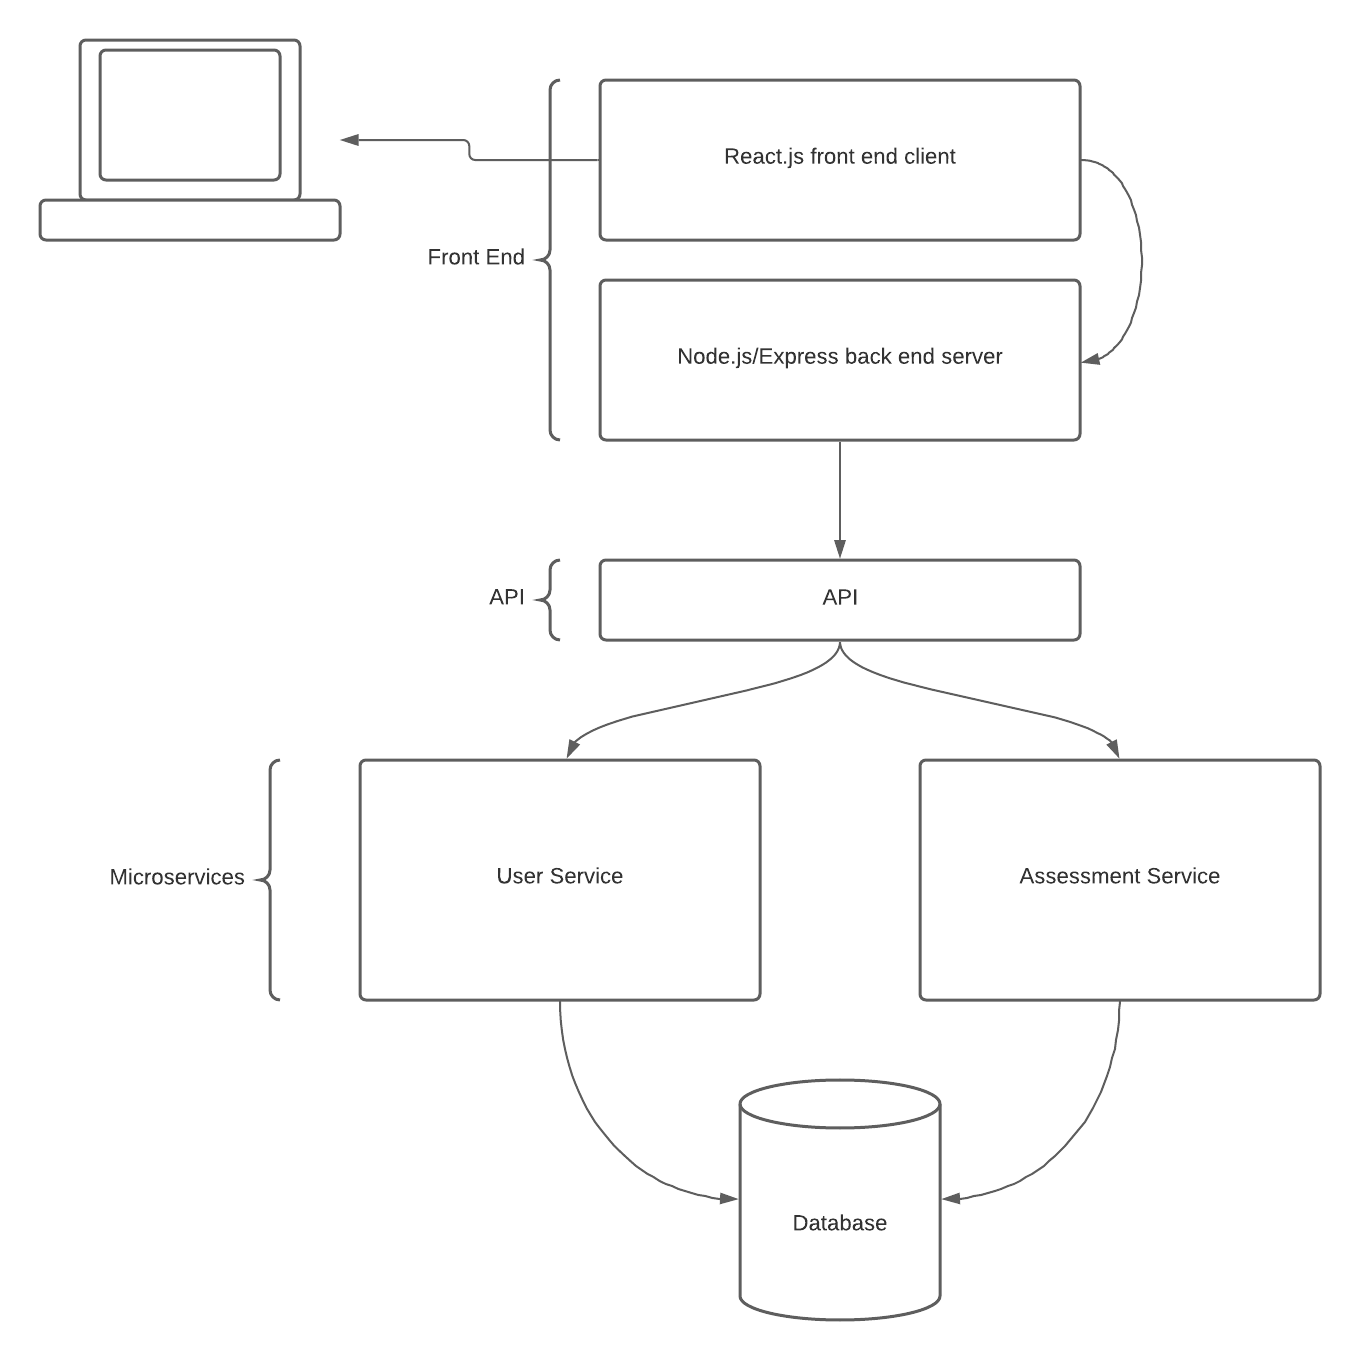
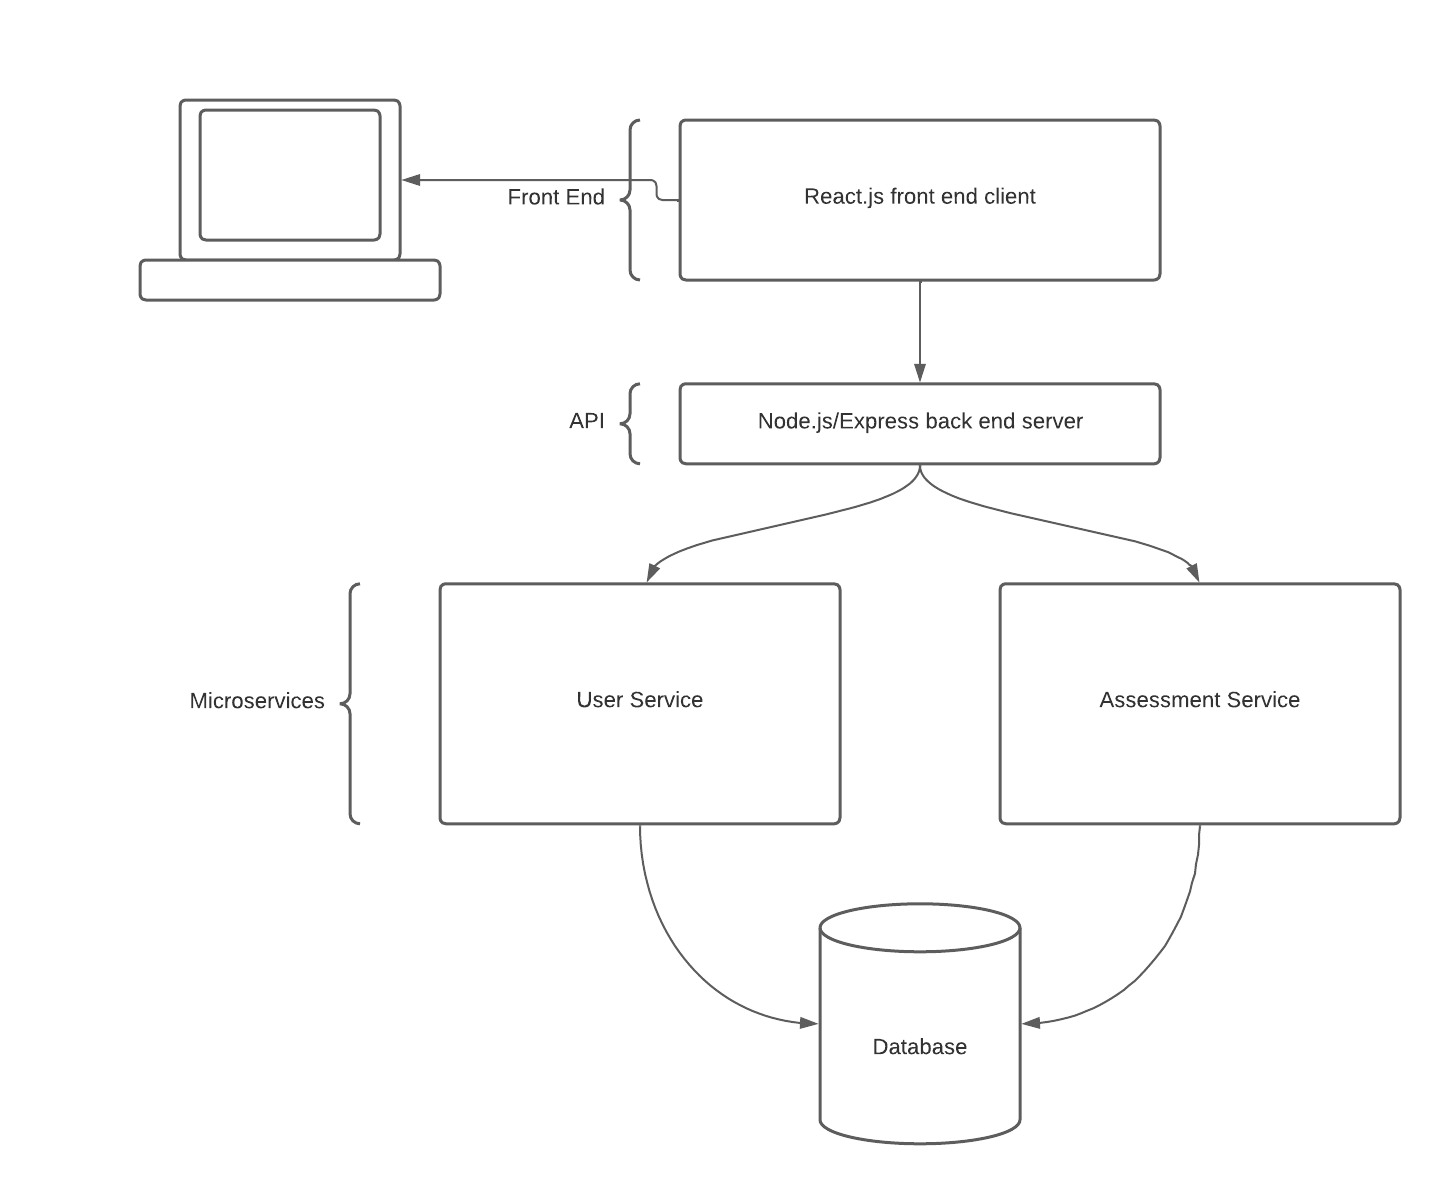
updated README

diff --git a/README.md b/README.md
@@ -3,24 +3,24 @@
 ## Purpose and Context
 
 - Web Development
-  - The goal of this application is for you to explore and demonstrate understanding of web development using some of our core technologies. You must use React.js on the client-side, a Bootstrap template for the UI, Node.js/Express for the server-side, Bookshelf.js as the ORM, restify for the API back-end, PostgreSQL as the database, and Bcrypt to encrypt passwords in PostgreSQL. You must also create a git repository on github.com and push all of your code there frequently.
+  - The goal of this application is for you to explore and demonstrate understanding of web development using some of our core technologies. You must use React.js on the client-side, a Bootstrap template for the UI, Node.js/Express for the back-end, Sequelize as the ORM, PostgreSQL as the database, and Bcrypt to encrypt passwords in PostgreSQL. You must also create a git repository on github.com and push all of your code there frequently.
 
 - Criminal Justice
-  - The Risk Assessment System is a Web-based Application that allows for assessing the risk of offender [recidivism](https://nij.ojp.gov/topics/corrections/recidivism).  By assessing the likelihood that an offender might commit another offense, the system helps officers determine how best to help the offender moving forward.  In ORAS, we do this by automatically generating caseplans, reports, and maintaining the full timeline of an offender's record while they exist in the system.  This process was developed based on research performed by the UC Corrections Institute (UCCI) and has been proven to reduce the recidivism of offenders over time.
+  - The Risk Assessment (RA) System is a Web-based Application that allows for assessing the risk of offender [recidivism](https://nij.ojp.gov/topics/corrections/recidivism). By assessing the likelihood that an offender might commit another offense, the system helps officers determine how best to help the offender moving forward. In RA, we do this by automatically generating caseplans, reports, and maintaining the full timeline of an offender's record while they exist in the system. This process was developed based on research performed by the UC Corrections Institute (UCCI) and has been proven to reduce the recidivism of offenders over time.
 
 - The OCAT Internship Project
-  - Through OCAT, you will have the opportunity to explore a core piece of ORAS by building an interface for both creating assessments and monitoring assessments previously performed by users.  Your ITSC mentors will guide you through this process, but we highly suggest that you make frequent use of your OCAT internship peers.  To be clear, we do not want you copying code or handing out answers to other interns.  However, this is a collaborative process, and asking questions when you're confused is an important part of learning!  On the flip-side of that, teaching someone else or helping them through a problem is the best way to further cement that knowledge in your own mind.  So ask questions when you're stuck and help point your fellow teammates in the right direction!  Good luck!
+  - Through OCAT, you will have the opportunity to explore a core piece of ORAS by building an interface for both creating assessments and monitoring assessments previously performed by users. Your ITSC mentors will guide you through this process, but we highly suggest that you make frequent use of your OCAT internship peers. To be clear, we do not want you copying code or handing out answers to other interns. However, this is a collaborative process, and asking questions when you're confused is an important part of learning! On the flip-side of that, teaching someone else or helping them through a problem is the best way to further cement that knowledge in your own mind. So ask questions when you're stuck and help point your fellow teammates in the right direction! Good luck!
 
 ## ITSC Guidelines
 
 - Setup
-  - PLEASE ask if you're having trouble setting up your project repository, project board, first branch, or development environment.  The mentors are here to help you!  We want to make sure you get off to a great start and this part is often the most challenging, so please don't hesitate to come to us immediately with any setup concerns!
+  - PLEASE ask if you're having trouble setting up your project repository, project board, first branch, or development environment. The mentors are here to help you! We want to make sure you get off to a great start and this part is often the most challenging, so please don't hesitate to come to us immediately with any setup concerns!
 - Hour/Day Policy
   - If you've been stuck on something for two hours, ask a fellow intern!
   - If you've been stuck on something for a full day, ask a mentor!
 - Process for Getting Unstuck
     1. Search through the available resources in this document (located at the bottom of the page and throughout)
-    2. Google!  This is your most valuable resource and learning how to search the internet for your answer is going to be your most valuable skill moving forward!  Forum resources like StackOverflow can be extremely helpful.  In web development, there's almost always someone who has encountered your problem before.  The trick lies in finding that answer!
+    2. Google! This is your most valuable resource and learning how to search the internet for your answer is going to be your most valuable skill moving forward! Forum resources like StackOverflow can be extremely helpful. In web development, there's almost always someone who has encountered your problem before. The trick lies in finding that answer!
     3. Ask an OCAT internship peer
     4. Ask an OCAT mentor
 
@@ -30,17 +30,17 @@
   - Making a Pull Request
     - Create a Pull Request (PR) from your development branch (your current branch) into master (the main branch)
       - [Creating a Pull Request](https://docs.github.com/en/github/collaborating-with-issues-and-pull-requests/creating-a-pull-request)
-    - Reach out to one of your fellow OCAT interns and ask them nicely to review your code.  Include a link to the Pull Request you'd like them to review
-    - Take any suggestions with a grain of salt.  Remember, this is YOUR application.  Make any changes you agree with and then merge the Pull Request
+    - Reach out to one of your fellow OCAT interns and ask them nicely to review your code. Include a link to the Pull Request you'd like them to review
+    - Take any suggestions with a grain of salt. Remember, this is YOUR application. Make any changes you agree with and then merge the Pull Request
   - Reviewing a Pull Request (PR)
     - [Reviewing a Pull Request](https://docs.github.com/en/github/collaborating-with-issues-and-pull-requests/about-pull-request-reviews)
     - Go the link supplied by whichever OCAT intern has requested a review from you
     - Look through their code, offering suggestions and critiques
       - You should try to:
       - Understand each part of the code and look for ways to improve it
-      - Be kind.  Remember that this is someone else's work that they've spent a lot of time on
-      - Balance criticism with praise.  It is tempting to only point out the negatives.  If you see something you like, tell them!
-      - Feel free to ask questions.  In the end, this is a learning process.  Feel free to ask questions if you don't understand something in the code.
+      - Be kind. Remember that this is someone else's work that they've spent a lot of time on
+      - Balance criticism with praise. It is tempting to only point out the negatives. If you see something you like, tell them!
+      - Feel free to ask questions. In the end, this is a learning process. Feel free to ask questions if you don't understand something in the code.
   - After a Pull Request (PR) has been approved, merge it and move on
     - [Merging a Pull Request](https://docs.github.com/en/github/collaborating-with-issues-and-pull-requests/merging-a-pull-request)
     - Once merged, create a new branch from master and start on your next issue
@@ -55,25 +55,25 @@
 - Back-End Framework
   - [Express](http://expressjs.com/)
   - [Node.js](https://nodejs.org/en/)
-  - [Restify](http://restify.com/)
-  - Database ORM -> [Bookshelf.js](http://bookshelfjs.org/) and [knex.js](http://knexjs.org/)
+  - Database ORM -> [Sequelize](https://sequelize.org/)
   - Password Encryption -> [Bcrypt](https://github.com/kelektiv/node.bcrypt.js)
 - Database
   - [PostgreSQL](https://www.postgresql.org/)
 - Package Manager (for Node.js)
   - [npm](https://www.npmjs.com/)
 - Task Runners
-  - [webpack](https://webpack.js.org/)
+  - [webpack](https://webpack.js.org/) through [create-react-app](https://create-react-app.dev/)
 
 ## Architecture
 
-The application must be created with two "layers" using an API model and pseudo-microservices (the "skeleton" for this has already been provided within the template repository you'll start with). Once the HTML page is rendered, all future communication between the client/server should be done using HTTP requests sending/receiving JSON.
+The application must be created with two "layers" using an API model (the "skeleton" for this has already been provided within the template repository you'll start with). Once the HTML page is rendered, all future communication between the client/server should be done using HTTP requests sending/receiving JSON.
 
-- API: thin layer allowing for directing of requests from the front-end to the microservices.  Allows for outside integration.
+- Client: User interface for interacting with the API (the "front-end" of the application)
+- API: layer that receives requests from the front-end or a 3rd party and processes the request with the database. Allows for outside integration.
   - [Basic API explanation](https://www.freecodecamp.org/news/what-is-an-api-in-english-please-b880a3214a82/)
+  - [CRUD Basics](https://www.codecademy.com/articles/what-is-crud)
 - Microservices: complex layer of services that accept requests from the API and communicate with the database.
   - [Basic Microservice explanation](https://smartbear.com/solutions/microservices/)
-  - [CRUD Basics](https://www.codecademy.com/articles/what-is-crud)
 
 - The below diagram resembles what you should attempt to reproduce:
 ![OCAT Sample Architecture](./docs/attachments/OCAT_Architecture.png)
@@ -100,7 +100,7 @@ NOTE: You can name this whatever you want, just make certain that you leave it "
     - Resources:
         - [Creating a Repository from a Template](https://docs.github.com/en/github/creating-cloning-and-archiving-repositories/creating-a-repository-from-a-template)
 2. Copy the Template Project Board
-    - NOTE: This is something you should keep constantly up-to-date.  It is how we will track your progress, and it will facilitate code review and collaboration with your OCAT internship peers.
+    - NOTE: This is something you should keep constantly up-to-date. It is how we will track your progress, and it will facilitate code review and collaboration with your OCAT internship peers.
         - Template:
             - [OCAT Project Board](https://github.com/UC-ITSC/OCAT_Intern_Template/projects/1)
         - Resources:
@@ -116,26 +116,21 @@ NOTE: You can name this whatever you want, just make certain that you leave it "
 
 1. Clone your new repository
     - [Cloning a Repository](https://docs.github.com/en/github/creating-cloning-and-archiving-repositories/cloning-a-repository)
-2. [Install NodeJS 12.x](docs/install_nodejs.md) on your computer (__Do NOT install Node 14 or the project will not run__)
+2. [Install NodeJS 16.x](docs/install_nodejs.md) on your computer
 3. [Install PostgreSQL](docs/install_postgres.md) using the [instructions in our docs](docs/install_postgres.md)
-4. OCAT
-    - Navigate into the OCAT/ directory ``cd OCAT/``
-    - Verify that the config.json for both directories is correct
-        - Begins as config.example.json and needs to be modified to match your environment
+4. Running the project
+    - Navigate into the packages/client/ directory ``cd packages/client/``
     - ``npm install``
         - [npm install](https://docs.npmjs.com/cli/install#:~:text=npm%20install%20(in%20package%20directory,directory)%20as%20a%20global%20package.)
-    - Open a second terminal window
-        1. Verify that both terminals are in the OCAT/ directory
-        2. Terminal 1
-            - ``npm run dev``
-        3. Terminal 2
-            - ``npm run build:dev``
+    - ``npm start``
+    - Open a second terminal window and navigate into the packages/api/ directory ``cd packages/api/``
+    - ``npm install``
+    - ``npm start``
 5. Verify that all recommended extensions are installed
     - [dbaeumer.vscode-eslint](https://marketplace.visualstudio.com/items?itemName=dbaeumer.vscode-eslint)
     - [formulahendry.auto-rename-tag](https://marketplace.visualstudio.com/items?itemName=formulahendry.auto-rename-tag)
     - [mgmcdermott.vscode-language-babel](https://marketplace.visualstudio.com/items?itemName=mgmcdermott.vscode-language-babel)
     - [visualstudioexptteam.vscodeintellicode](https://marketplace.visualstudio.com/items?itemName=VisualStudioExptTeam.vscodeintellicode)
-    - [coenraads.bracket-pair-colorizer-2](https://marketplace.visualstudio.com/items?itemName=CoenraadS.bracket-pair-colorizer-2)
     - [streetsidesoftware.code-spell-checker](https://marketplace.visualstudio.com/items?itemName=streetsidesoftware.code-spell-checker)
     - [gruntfuggly.todo-tree](https://marketplace.visualstudio.com/items?itemName=Gruntfuggly.todo-tree)
     - [vsls-contrib.codetour](https://marketplace.visualstudio.com/items?itemName=vsls-contrib.codetour)
@@ -148,8 +143,8 @@ NOTE: You can name this whatever you want, just make certain that you leave it "
 ### C. Features
 
 - NOTE: These are the general requirements for features 1, 2 and 3. For specific instructions, see the code tours.
-- NOTE: Please do any login-related pieces near the end.  Otherwise, you may spend the entire time developing a login process and you will not have much to show come presentation time.
-- NOTE: All work should be done on a separate "branch" so that it can be code reviewed.  Below are instructions on how to create a new branch:
+- NOTE: Please do any login-related pieces near the end. Otherwise, you may spend the entire time developing a login process and you will not have much to show come presentation time.
+- NOTE: All work should be done on a separate "branch" so that it can be code reviewed. Below are instructions on how to create a new branch:
   - [Creating a branch](https://docs.github.com/en/desktop/contributing-and-collaborating-using-github-desktop/managing-branches#creating-a-branch)
 
 1. Allow Users to submit an assessment with the following information
@@ -164,7 +159,7 @@ NOTE: You can name this whatever you want, just make certain that you leave it "
         - Audit log of when the assessment was created/deleted (datetime with timezone)
     - Recommend using [React Hook Form](https://react-hook-form.com/)
 2. Implement a bootstrap style template to make your site look presentable
-    - NOTE: Do not spend too much time on this.  We want the application to look good but not at the risk of hindering the overall completion of your project
+    - NOTE: Do not spend too much time on this. We want the application to look good but not at the risk of hindering the overall completion of your project
 3. Allow Users and Supervisors to sort/search/filter/review submitted assessments from a list
     - Should only return non-deleted assessments
     - The list should include (at minimum) cat name, cat date of birth, instrument, score, risk level, and creation date
@@ -173,7 +168,7 @@ NOTE: You can name this whatever you want, just make certain that you leave it "
     - This must authenticate against the database using [Bcrypt](https://www.npmjs.com/package/bcrypt)
 5. Allow Supervisors to delete assessment submissions
     - This should be a soft delete in the database (a soft delete does not remove the data from the database, it sets a flag on the record so it does not show up on the front-end)
-    - Recommend using [bookshelf-soft-delete](https://www.npmjs.com/package/bookshelf-soft-delete)
+    - Soft deletes are built into Sequelize
 6. Prepare your presentation!
 
 ## Resources
@@ -201,14 +196,14 @@ NOTE: You can name this whatever you want, just make certain that you leave it "
 - [Express API Reference](http://expressjs.com/en/4x/api.html)
 - Video: [Learn Express & Node.js in 15 Minutes](https://www.youtube.com/watch?v=JlgKybraoy4)
 
-### Bookshelf.js
+### Sequelize (ORM)
 
-- [API Reference](https://bookshelfjs.org/api.html)
-- [Bookshelf.js: A Node.js ORM](http://stackabuse.com/bookshelf-js-a-node-js-orm/)
-- [Helpful Example](https://travishorn.com/what-did-i-learn-this-week-knex-js-bookshelf-js-95d3490e3a6f)
-- [More Examples](http://zetcode.com/javascript/bookshelf/)
-- [bookshelf's npm page](https://www.npmjs.com/package/bookshelf)
-- Video: [Bookshelf.js Tutorial - An Introduction to Bookshelf.js](https://www.youtube.com/watch?v=WyRoEQjtDDY)
+- [API Reference](https://sequelize.org/api/v6/identifiers)
+- [What is Sequelize?](https://www.educative.io/answers/what-is-sequelizejs)
+- [Using Sequelize with TypeScript](https://sequelize.org/docs/v6/other-topics/typescript/)
+- [Sequelize Example and Model Builder](https://sequelizeui.app/schema/employees)
+- [Sequelize's npm page](https://www.npmjs.com/package/sequelize)
+- Video: [Sequelize Tutorial - Getting Started with Sequelize and PostgreSQL](https://www.youtube.com/watch?v=p-yKR7GusqM)
 
 ### React.js HTTP Requests with Axios
 
